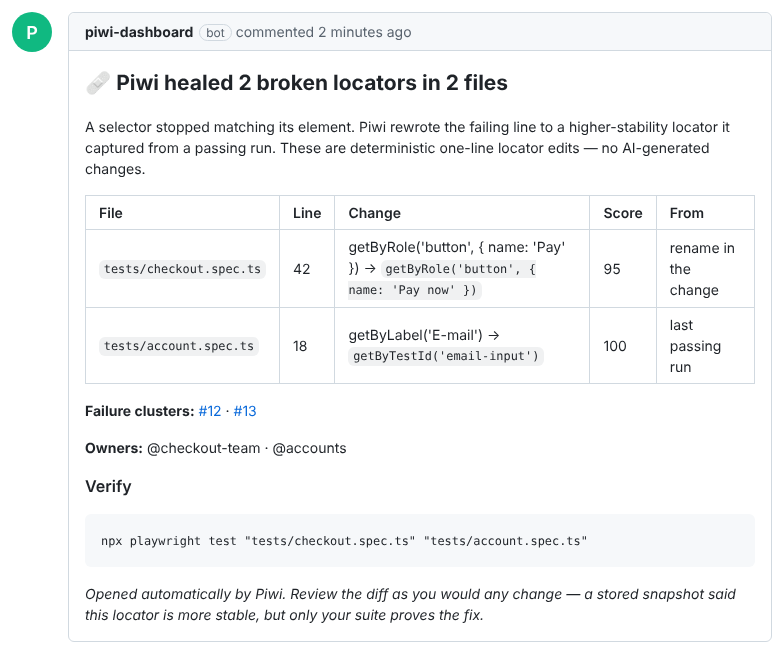
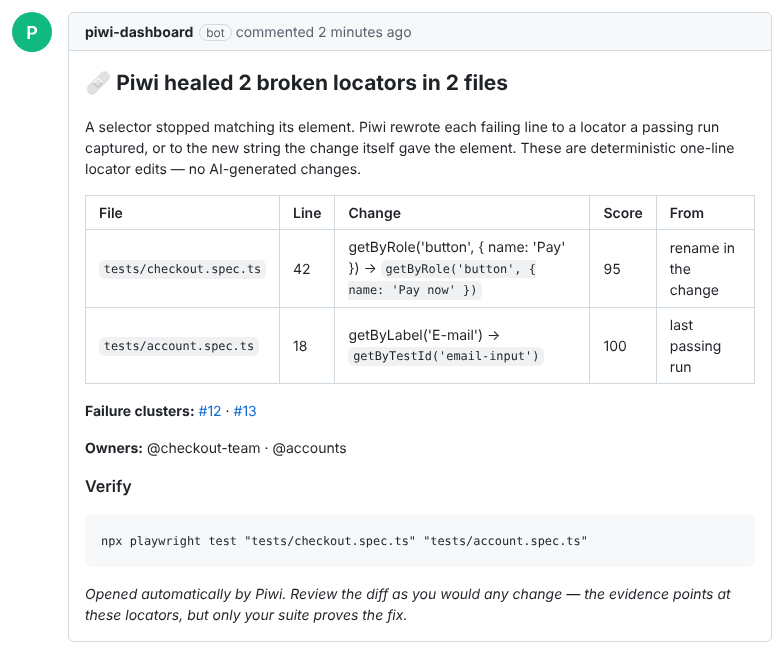
fix(app): say in a heal pull request where a rename's replacement came from
The body said every replacement was a locator captured from a passing run, and
its footer that a stored snapshot vouched for it; an edit the change's own diff
renamed has neither. Both lines now cover a capture and a rename.

Claude-Session: https://claude.ai/code/session_01ADXAbfz2ykLrXxw55KaDRq

Changed region(s): [[0.0918, 0.1835, 0.949, 0.2752], [0.1224, 0.9174, 0.6122, 0.948], [0.7347, 0.8869, 0.949, 0.9174]]

diff --git a/apps/application/shared/heal-pr.ts b/apps/application/shared/heal-pr.ts
@@ -55,8 +55,9 @@ export function buildHealPrBody(payload: HealActionPayload, siteUrl: string | nu
   );
   lines.push('');
   lines.push(
-    'A selector stopped matching its element. Piwi rewrote the failing line to a higher-stability locator it captured ' +
-      'from a passing run. These are deterministic one-line locator edits — no AI-generated changes.',
+    'A selector stopped matching its element. Piwi rewrote each failing line to a locator a passing run captured, or ' +
+      'to the new string the change itself gave the element. These are deterministic one-line locator edits — no ' +
+      'AI-generated changes.',
   );
   lines.push('');
 
@@ -90,8 +91,8 @@ export function buildHealPrBody(payload: HealActionPayload, siteUrl: string | nu
   lines.push('```');
   lines.push('');
   lines.push(
-    '_Opened automatically by Piwi. Review the diff as you would any change — a stored snapshot said this locator is ' +
-      'more stable, but only your suite proves the fix._',
+    '_Opened automatically by Piwi. Review the diff as you would any change — the evidence points at these ' +
+      'locators, but only your suite proves the fix._',
   );
 
   return lines.join('\n');
